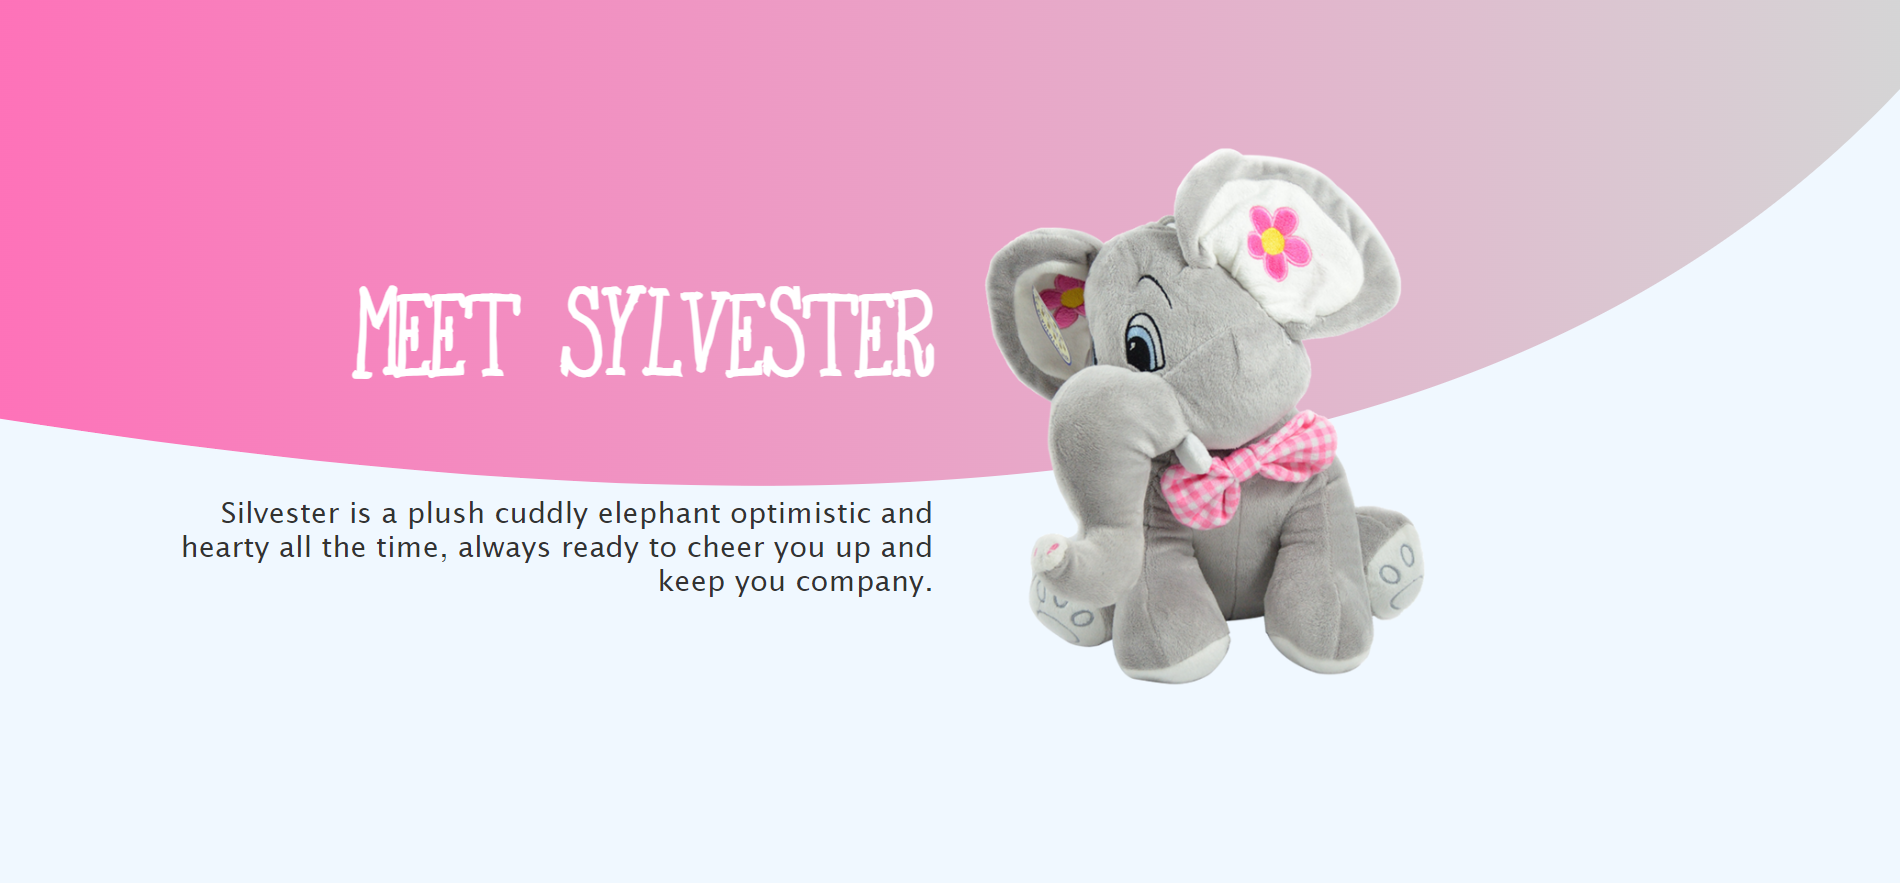
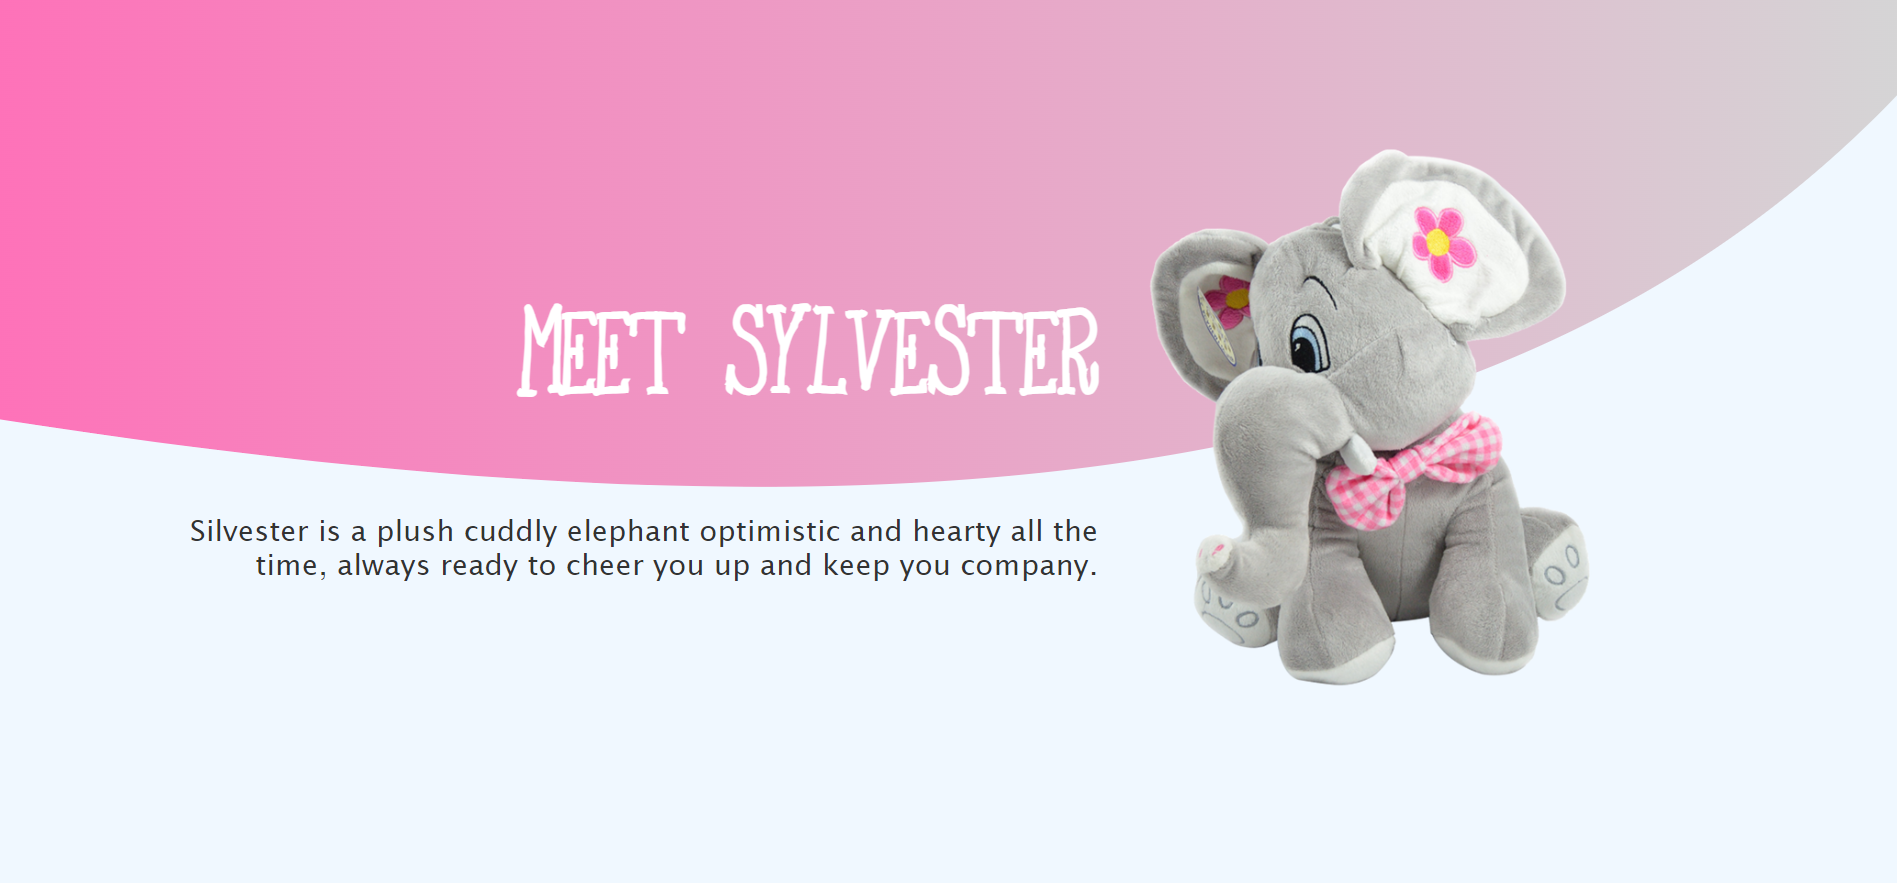
bootcamp assignment

diff --git a/css/style.css b/css/style.css
@@ -3,8 +3,8 @@ body {
     background-size: cover;
     background-position: center;
     background-color: aliceblue;
-    padding: 10rem;
     margin: 0;
+    height: 100vh;
 }
 
 @font-face {
@@ -15,42 +15,41 @@ body {
 
 
 h1 {
+    color: white;
     font-size: 9rem;
     font-weight: 900;
     font-family: 'FromtheWoods', sans-serif;
-    color: white;
-    margin-top: 0;
-    margin-right: 3rem;
-    margin-bottom: 2rem;
+    margin: 0 0 0 10rem;
     text-align: right;
+    text-shadow: 3px 3px 6px gray;
 }
 
 p {
+    color: #333;
     font-size: 2rem;
     font-weight: 400;
     font-family: 'Lucida Sans', 'Lucida Sans Regular', 'Lucida Grande', 'Lucida Sans Unicode', Geneva, Verdana, sans-serif;
-    color: #333;
-    margin-top: 7rem;
-    margin-right: 3rem;
-    margin-bottom: 0;
+    margin: 7rem 0 0 10rem;
     text-align: right;
 }
 
 section.main {
     display: flex;
-    flex-direction: row;
-    text-align: center;
-    max-width: 80%;
+    justify-content: center;
     align-items: center;
+    height: 100%;
+    gap: 4rem;
+    max-width: 90%;
+    min-width: 400px;
 }
 
-
-section.main .main_title {
-    flex: 2;
-    width: 50%;
+section.main .main_text {
+    display: flex;
+    flex-direction: column;
+    align-items: flex-end;
 }
 
 section.main .main__img {
-    flex: 1;
-    width: 50%;
+    display: flex;
+    flex-direction: column;
 }

diff --git a/index.html b/index.html
@@ -7,18 +7,17 @@
     <link rel="stylesheet" href="./css/style.css" />
     <link rel="stylesheet" href="./font/FromtheWoods-Regular.woff2" />
   </head>
-  <body>
+  <body class="main">
     <section class="main">
-      <div class="main__title">
-        <h1>Meet Sylvester</h1>
-        <p>
+      <div class="main__text">
+        <h1 class="main__text">Meet Sylvester</h1>
+        <p class="main__text">
           Silvester is a plush cuddly elephant optimistic and hearty all the
           time, always ready to cheer you up and keep you company.
         </p>
-        <!-- <button>Get it now</button> -->
       </div>
       <div class="main__img">
-        <img src="./img/silvestr.png" alt="Meet Silvestr" />
+        <img class="main__img" src="./img/silvestr.png" alt="Meet Silvester" />
       </div>
     </section>
   </body>
